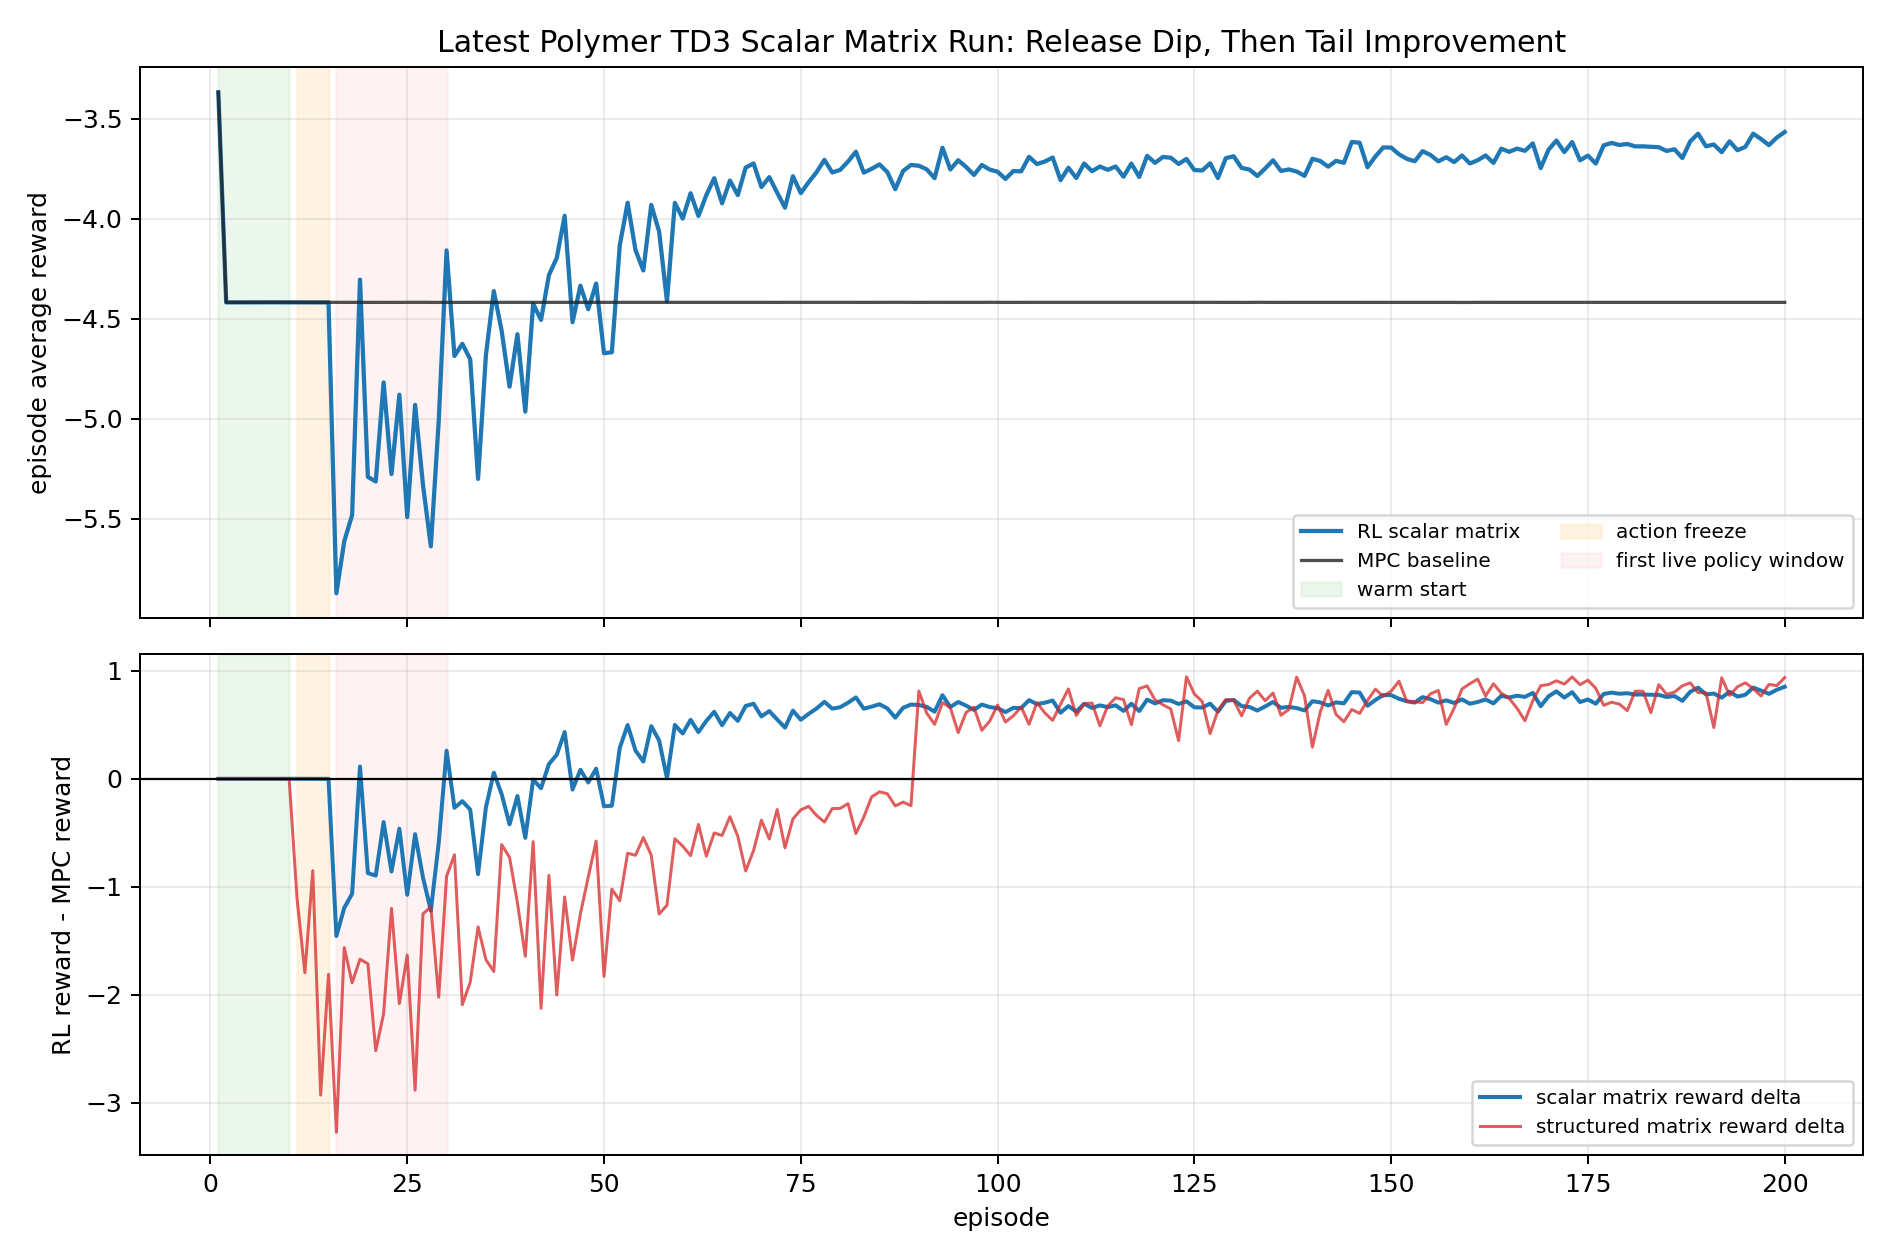
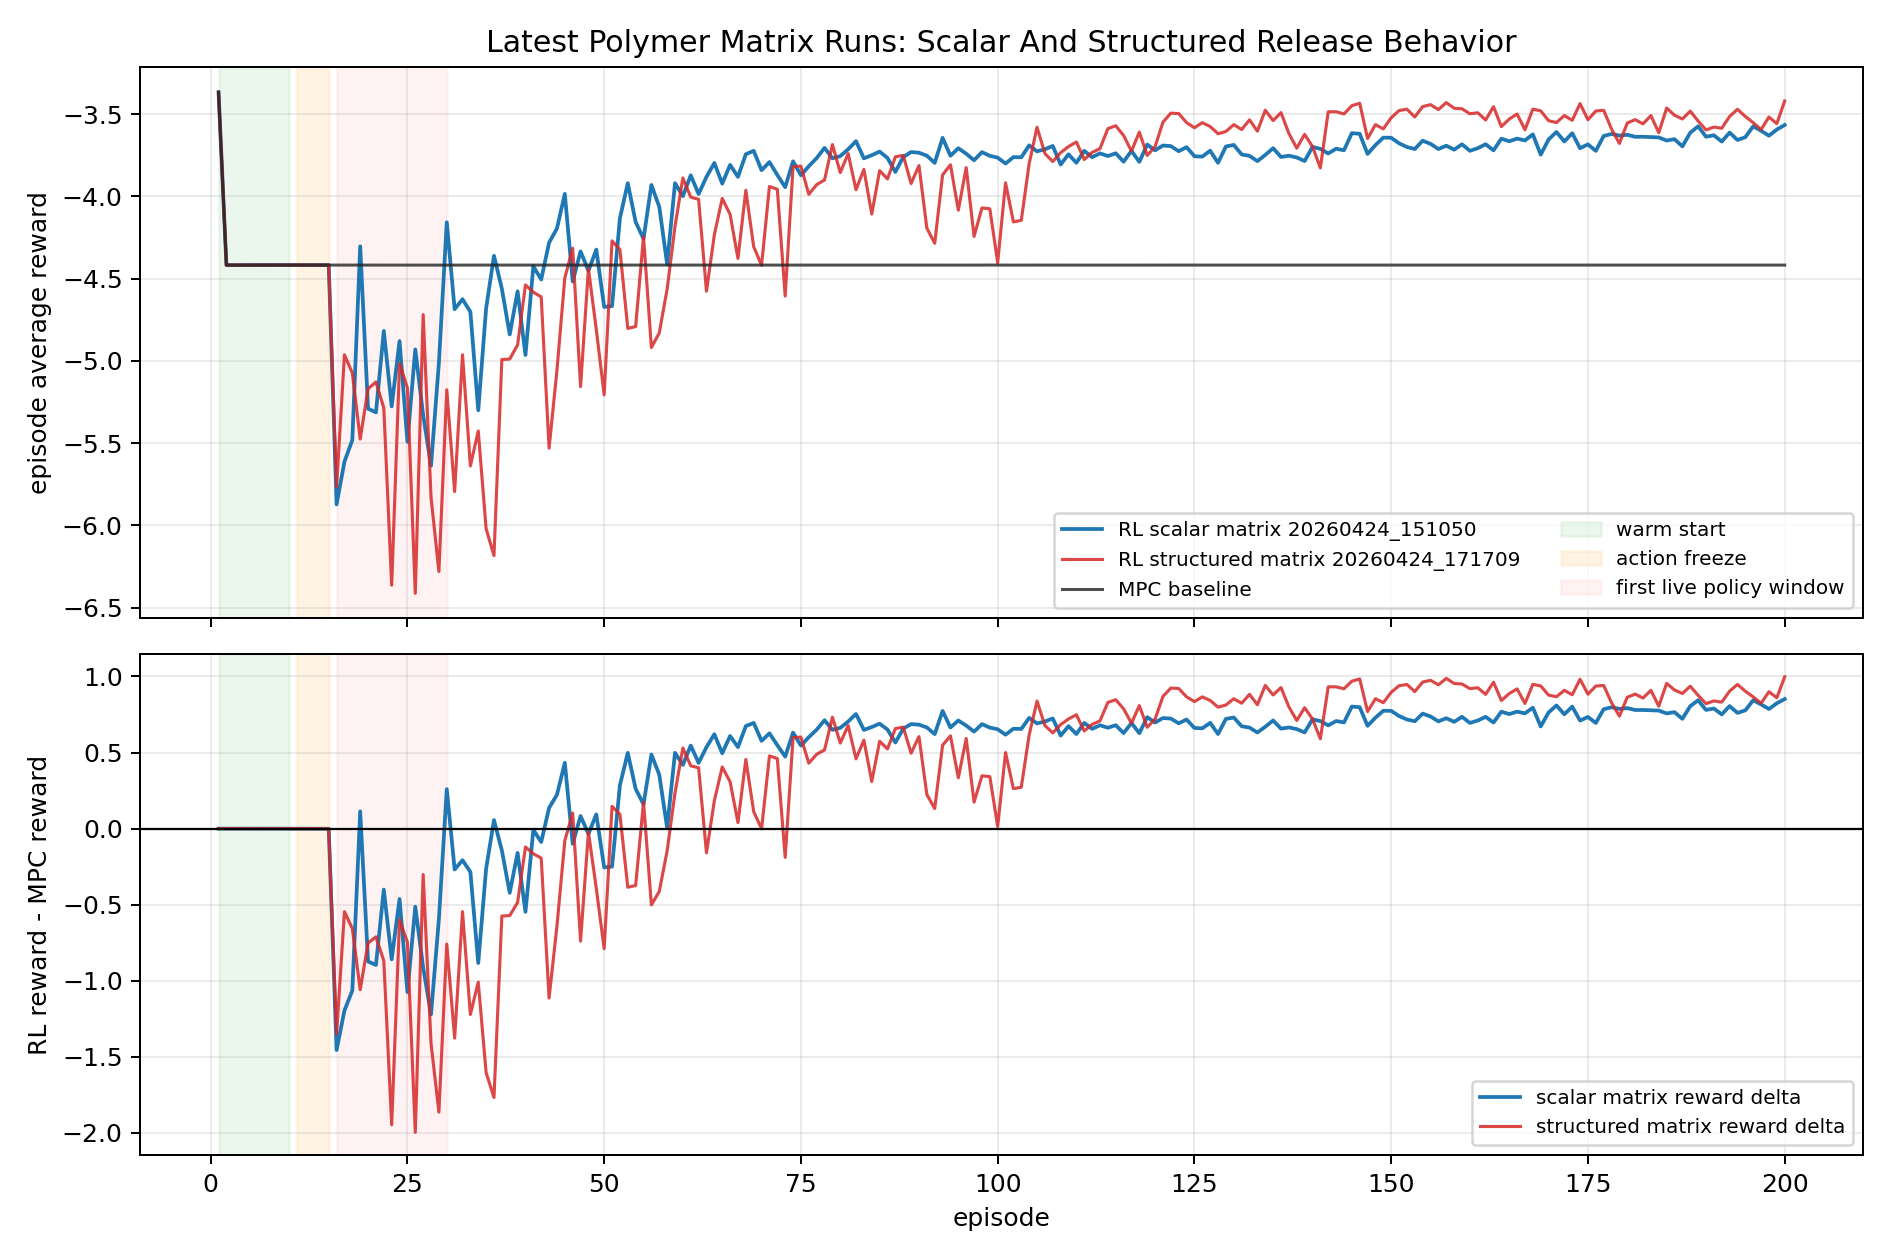
Refresh structured option one analysis

diff --git a/report/matrix_multiplier_cap_calculation_and_distillation_recovery.md b/report/matrix_multiplier_cap_calculation_and_distillation_recovery.md
@@ -20,8 +20,8 @@ This report is now an ongoing working document. The current implementation step 
 
 | Option | Scope | Status on 2026-04-24 | Expected artifact | Next action |
 |---|---|---|---|---|
-| Option 1: offline `rho` + gain sensitivity | Scalar matrix and structured matrix, unified for polymer and distillation | Implemented; scalar polymer diagnostic run completed; structured diagnostic still pending | `sensitivity_by_coordinate.csv`, `candidate_scan_summary.csv`, `suggested_bounds.csv`, optional plots | Run structured polymer diagnostic cell next |
-| Option 1 result update | Latest polymer scalar matrix run and latest structured comparison | Updated here from 2026-04-24 and 2026-04-23 result bundles | Result tables and report figures added | Use release-protected bounds before trying static caps |
+| Option 1: offline `rho` + gain sensitivity | Scalar matrix and structured matrix, unified for polymer and distillation | Implemented; scalar and structured polymer diagnostics completed | `sensitivity_by_coordinate.csv`, `candidate_scan_summary.csv`, `suggested_bounds.csv`, optional plots | Use the diagnostics to design release protection |
+| Option 1 result update | Latest polymer scalar matrix run and latest structured matrix run | Updated here from 2026-04-24 result bundles | Result tables and report figures added | Use release-protected bounds before trying static caps |
 | Option 2: release-protected advisory-cap trial | Polymer scalar matrix first, then structured | Recommended next | Phase-aware cap/ramp, not a permanent static cap | Implement only after reviewing this section |
 | Option 3: acceptance or fallback layer | Polymer first, then distillation | Not started | Nominal-cost or rollout-based safety gate | Use if sensitivity-only caps are insufficient |
 | Option 4: release stabilization | Distillation priority | Not started | BC decay, actor freeze, reward-shaping, or release-ramp study | Use if degradation is mainly policy-release driven |
@@ -39,8 +39,9 @@ This update uses the latest polymer scalar matrix TD3 disturbance result:
 
 For context, it also compares against the latest structured matrix disturbance result:
 
-- Structured RL bundle: `Polymer/Results/td3_structured_matrices_disturb/20260423_002321/input_data.pkl`
-- Structured comparison bundle: `Polymer/Results/disturb_compare_td3_structured_matrices/20260423_002338/input_data.pkl`
+- Structured RL bundle: `Polymer/Results/td3_structured_matrices_disturb/20260424_171709/input_data.pkl`
+- Structured comparison bundle: `Polymer/Results/disturb_compare_td3_structured_matrices/20260424_171727/input_data.pkl`
+- Offline structured diagnostic: `Polymer/Results/offline_multiplier_sensitivity/polymer_structured_matrix_td3_disturb_20260424_161223/`
 
 The diagnostic result and the closed-loop result agree on the main issue: the polymer matrix method is not mainly failing because random candidates are unstable. It is failing during **policy release**, when the actor suddenly uses the full wide multiplier authority.
 
@@ -58,16 +59,19 @@ In the table below, positive `mean_reward_delta` means RL beats the MPC baseline
 | Scalar matrix, 2026-04-24 | 31-100 | -4.0549 | -4.4174 | +0.3625 | 78.6% |
 | Scalar matrix, 2026-04-24 | 101-200 | -3.6923 | -4.4174 | +0.7251 | 100.0% |
 | Scalar matrix, 2026-04-24 | 1-200 | -3.9784 | -4.4121 | +0.4337 | 81.5% |
-| Structured matrix, 2026-04-23 | 11-15 | -6.1159 | -4.4173 | -1.6985 | 0.0% |
-| Structured matrix, 2026-04-23 | 16-30 | -6.2810 | -4.4174 | -1.8636 | 0.0% |
-| Structured matrix, 2026-04-23 | 101-200 | -3.6852 | -4.4174 | +0.7321 | 100.0% |
-| Structured matrix, 2026-04-23 | 1-200 | -4.4278 | -4.4121 | -0.0156 | 57.5% |
+| Structured matrix, 2026-04-24 | 1-10 | -4.3123 | -4.3123 | -0.0000 | 40.0% |
+| Structured matrix, 2026-04-24 | 11-15 | -4.4174 | -4.4173 | -0.0001 | 40.0% |
+| Structured matrix, 2026-04-24 | 16-30 | -5.4548 | -4.4174 | -1.0374 | 0.0% |
+| Structured matrix, 2026-04-24 | 31-100 | -4.3921 | -4.4174 | +0.0253 | 61.4% |
+| Structured matrix, 2026-04-24 | 101-200 | -3.5780 | -4.4174 | +0.8394 | 100.0% |
+| Structured matrix, 2026-04-24 | 1-200 | -4.0614 | -4.4121 | +0.3507 | 74.5% |
 
 Interpretation:
 
 - The scalar matrix run is now a real success after release recovery: episodes 101-200 beat MPC in every episode.
 - The first live policy window is still bad: episodes 16-30 lose by `0.7429` reward on average.
-- The structured matrix result has the same long-run promise but a much worse release problem. It eventually beats MPC in the tail, but the early damage cancels the full-run benefit.
+- The latest structured matrix result is much better than the older structured result. It still has a larger first-live-window loss than scalar mode, but it now finishes positive over the full 200 episodes.
+- The structured tail is strongest: episodes 101-200 beat MPC by `0.8394` reward on average, larger than the scalar tail improvement of `0.7251`.
 - Therefore, the next change should not simply shrink all authority forever. It should protect the release window while preserving the later authority that produced the tail improvement.
 
 ### Offline Diagnostic Summary
@@ -95,6 +99,33 @@ The advisory bounds from the diagnostic were:
 | `B_col_2` | 0.6000 | 1.3000 | 0.7559 | 1.3000 | `gain-limited;user-bound-limited` |
 
 This should **not** be applied as a permanent cap yet. The latest successful tail behavior uses `alpha` well below `0.9499`, so a permanent diagnostic `alpha` low cap may remove the useful learned behavior. The diagnostic cap is most useful as a **release protection**.
+
+The structured diagnostic now gives the missing per-coordinate picture. It also sampled 2000 log-uniform candidates inside the current structured bounds.
+
+| Structured diagnostic quantity | Value |
+|---|---:|
+| Nominal physical spectral radius | 0.946394 |
+| Unstable candidate fraction | 0.000 |
+| Near-unit candidate fraction, `rho >= 0.995` | 0.008 |
+| Candidate gain-ratio p95 | 0.7135 |
+| Candidate gain-ratio max | 0.7716 |
+| Worst `rho` coordinate | `A_block_1` |
+| Worst gain coordinate | `A_block_2` |
+
+<img src="./figures/matrix_multiplier_option1/polymer_structured_option1_sensitivity_and_bounds.png" alt="Polymer structured option 1 sensitivity and advisory bounds" width="1200" style="max-width: 100%; height: auto;" />
+
+The structured advisory bounds were:
+
+| Coordinate | Current low | Current high | Suggested low | Suggested high | Reason |
+|---|---:|---:|---:|---:|---|
+| `A_block_1` | 0.6000 | 1.0566 | 0.9497 | 1.0530 | `rho-limited` |
+| `A_block_2` | 0.6000 | 1.0566 | 0.9304 | 1.0566 | `gain-limited;user-bound-limited` |
+| `A_block_3` | 0.6000 | 1.0566 | 0.6000 | 1.0566 | `user-bound-limited` |
+| `A_off` | 0.6000 | 1.0566 | 0.6000 | 1.0566 | `user-bound-limited` |
+| `B_col_1` | 0.6000 | 1.3000 | 0.6000 | 1.3000 | `user-bound-limited` |
+| `B_col_2` | 0.6000 | 1.3000 | 0.7559 | 1.3000 | `gain-limited;user-bound-limited` |
+
+This explains why structured mode should not use one shared cap for all A-side multipliers. `A_block_1` is the stability-sensitive A coordinate, `A_block_2` is the gain-sensitive A coordinate, and `A_block_3` plus `A_off` look comparatively safe under this finite-horizon diagnostic.
 
 ### How The Diagnostic Caps Were Calculated
 
@@ -167,6 +198,19 @@ For `B` columns, the rho limit is ignored because `B` does not set open-loop eig
 
 The early live window has extreme raw action saturation: about `84.4%` of scalar action coordinates are at the normalized action boundary. That is not a fine cap-selection signal. It means the actor is released while still behaving like a boundary-seeking policy. Later, saturation falls to about `9.1%`, and the same broad authority becomes useful.
 
+The latest structured run shows the same pattern with more action dimensions:
+
+<img src="./figures/matrix_multiplier_option1/polymer_latest_structured_policy.png" alt="Latest polymer structured matrix multiplier policy and action saturation" width="1200" style="max-width: 100%; height: auto;" />
+
+| Episodes | Mean raw saturation | `A_block_1` mean | `A_block_2` mean | `A_block_3` mean | `A_off` mean | `B_col_1` mean | `B_col_2` mean |
+|---|---:|---:|---:|---:|---:|---:|---:|
+| 16-30 | 85.7% | 0.8673 | 0.8398 | 0.8080 | 0.8272 | 0.9585 | 0.9039 |
+| 31-100 | 33.8% | 0.8951 | 0.9080 | 0.8181 | 0.8656 | 0.9880 | 0.8374 |
+| 101-200 | 17.5% | 0.8798 | 0.8870 | 0.9283 | 0.8655 | 0.9119 | 0.9628 |
+| 16-200 | 29.2% | 0.8846 | 0.8911 | 0.8768 | 0.8624 | 0.9445 | 0.9106 |
+
+Structured release saturation is slightly worse than scalar release saturation (`85.7%` versus `84.4%`), and it acts over six coordinates instead of three. This is why the structured first-live loss remains larger even though its final tail behavior is excellent.
+
 ## Next Step From Polymer
 
 The next implementation should be **Option 2A: release-protected advisory caps**, not a permanent static cap.
@@ -177,7 +221,7 @@ Recommended polymer-only trial:
 |---|---:|---|---|---|
 | Warm start | 1-10 | Nominal action only | Nominal action only | Preserve MPC behavior |
 | Action freeze | 11-15 | Nominal executed action | Nominal executed action | Keep current protected release setup |
-| Protected live release | 16-30 | Use diagnostic release cap, approximately `[0.95, 1.0527]` | Keep `B_col_1` wide; set `B_col_2` low to about `0.756` | Stop boundary-action release crash |
+| Protected live release | 16-30 | Scalar: use `[0.95, 1.0527]`; structured: cap `A_block_1` to `[0.9497, 1.0530]` and `A_block_2` low to `0.9304` | Keep `B_col_1` wide; set `B_col_2` low to about `0.756` | Stop boundary-action release crash |
 | Authority ramp | 31-60 | Gradually relax toward current wide lower bound | Gradually relax toward current wide bounds | Allow learning to recover useful wide behavior |
 | Full authority | 61-200 | Current bounds | Current bounds | Preserve the tail improvement seen in polymer |
 

diff --git a/change-reports/2026-04-24_refresh_structured_option1_analysis.md b/change-reports/2026-04-24_refresh_structured_option1_analysis.md
@@ -1,0 +1,9 @@
+# Refresh Structured Option 1 Analysis
+
+Updated the matrix multiplier recovery report to use the latest polymer structured matrix run.
+
+- Replaced the older structured comparison with `td3_structured_matrices_disturb/20260424_171709`.
+- Added the latest structured comparison bundle `disturb_compare_td3_structured_matrices/20260424_171727`.
+- Added the structured offline diagnostic from `polymer_structured_matrix_td3_disturb_20260424_161223`.
+- Regenerated reward-window tables and structured sensitivity/policy figures.
+- Updated the next-step recommendation to use per-coordinate structured release protection.
